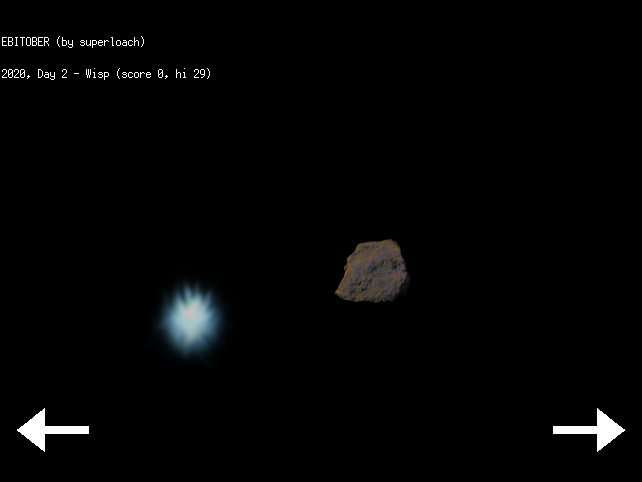
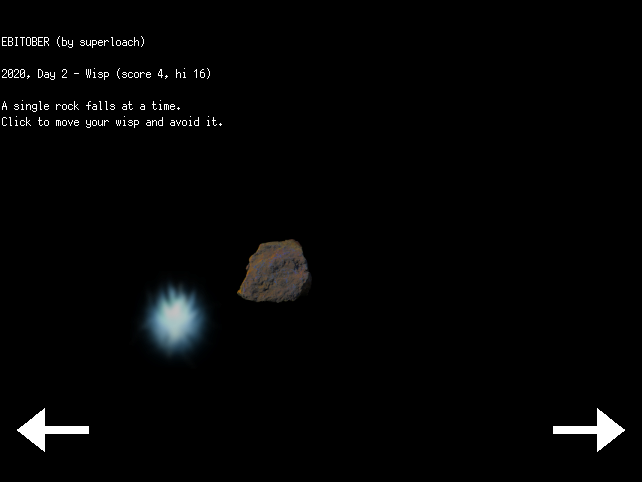
better info, update scrots

diff --git a/2020/day02/day.go b/2020/day02/day.go
@@ -34,7 +34,7 @@ func New() *Day {
 }
 
 func (d *Day) Info() string {
-	return fmt.Sprintf("2020, Day 2 - Wisp (score %d, hi %d)", d.Score, d.Hi)
+	return fmt.Sprintf("2020, Day 2 - Wisp (score %d, hi %d)\n\nA single rock falls at a time.\nClick to move your wisp and avoid it.", d.Score, d.Hi)
 }
 
 func (d *Day) Tick(s *ebiten.Image, w, h float64) error {

diff --git a/2020/day01/day.go b/2020/day01/day.go
@@ -27,7 +27,7 @@ func New(n int) *Day {
 }
 
 func (d *Day) Info() string {
-	return fmt.Sprintf("2020, Day 1 - Fish (%d of them)", len(d.Fish))
+	return fmt.Sprintf("2020, Day 1 - Fish (%d of them)\n\nClick fish to remove them.\nClick elsewhere to make fish.", len(d.Fish))
 }
 
 func (d *Day) Tick(s *ebiten.Image, w, h float64) error {

diff --git a/README.md b/README.md
@@ -4,12 +4,12 @@ Tiny Ebiten games for Inktober.
 <summary>daily screenshots</summary>
 
 ## [10/01/2020 - Fish](https://github.com/superloach/ebitober/tree/ichiji/2020/day01)
-A very simple fish game - click fish to kill them, click elsewhere to make fish.
+Click fish to remove them. Click elsewhere to make fish.
 
 ![10/01/2020 - Fish](https://github.com/superloach/ebitober/blob/ichiji/scrots/day01.png)
 
 ## [10/02/2020 - Wisp](https://github.com/superloach/ebitober/tree/ichiji/2020/day02)
-A single rock falls at a time, click to move your wisp and avoid it. Very rushed.
+A single rock falls at a time. Click to move your wisp and avoid it.
 
 ![10/02/2020 - Wisp](https://github.com/superloach/ebitober/blob/ichiji/scrots/day02.png)
 
